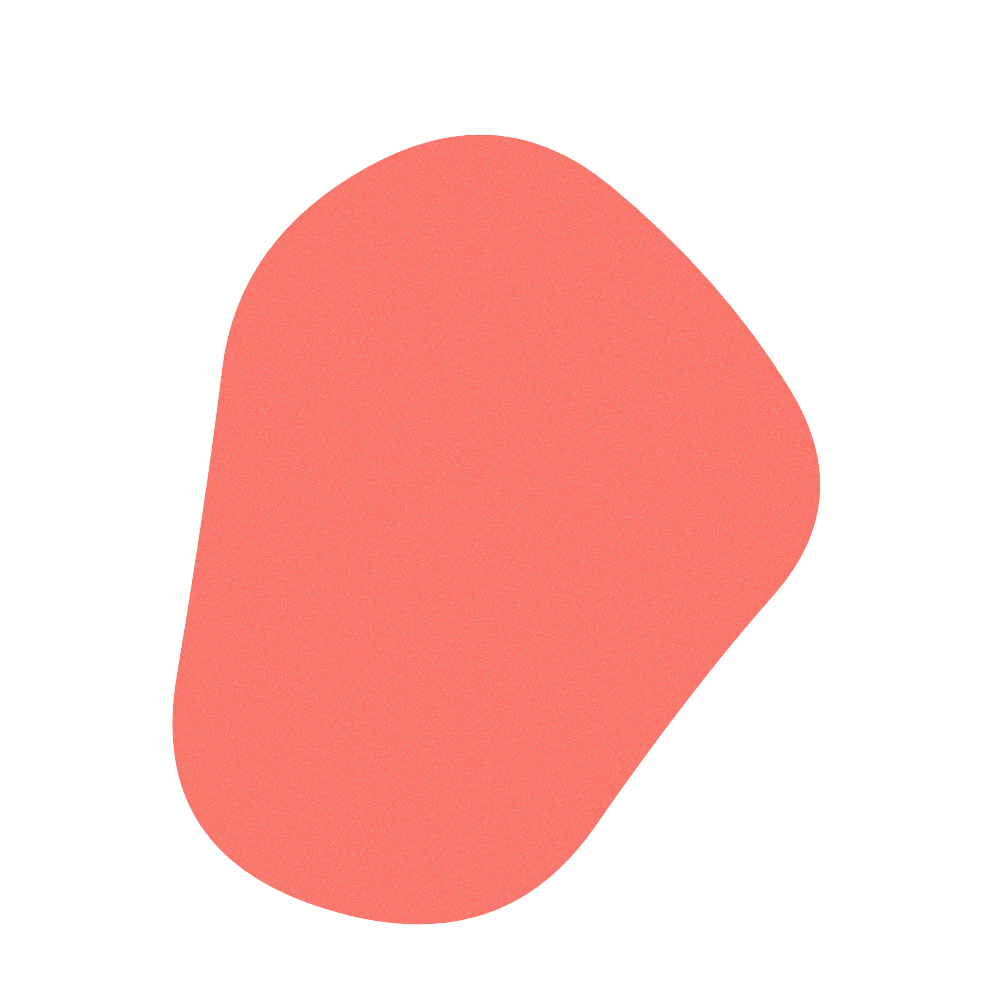
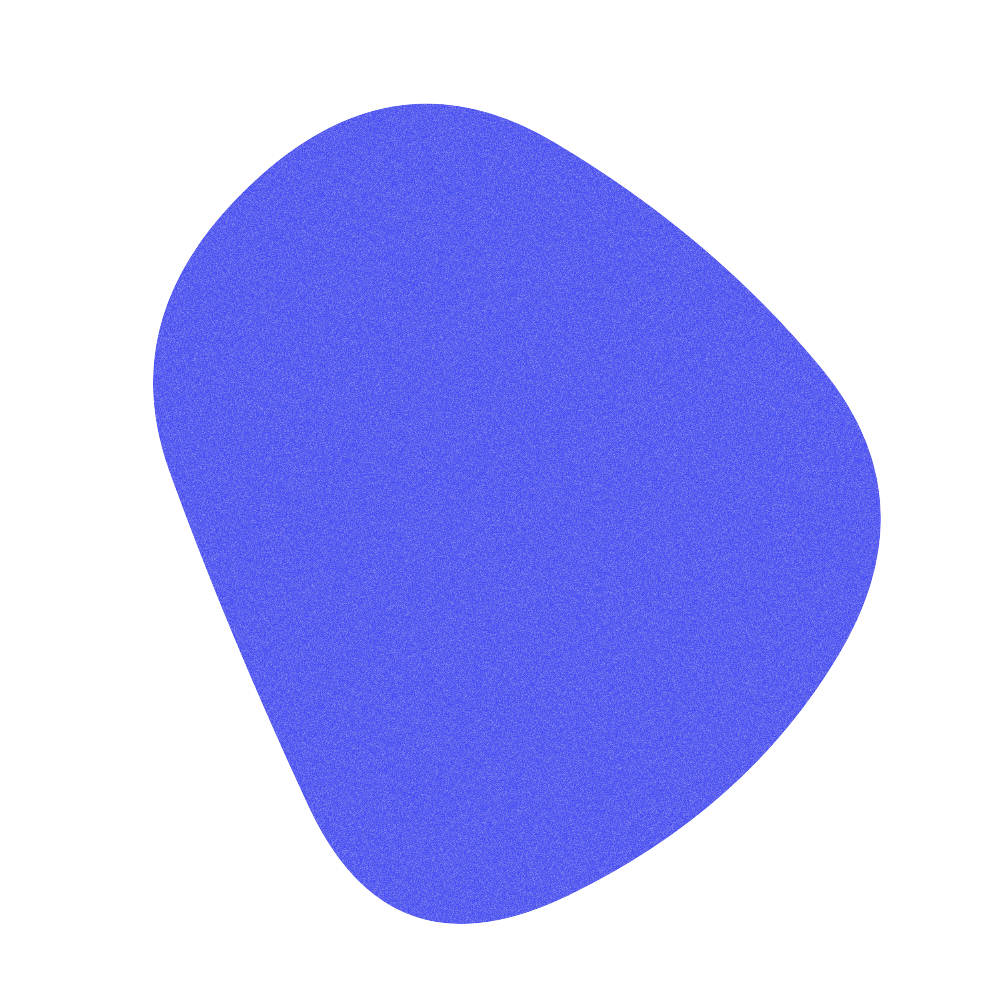
made minor changes

diff --git a/public/events/style.css b/public/events/style.css
@@ -1,4 +1,5 @@
-@import url('https://fonts.googleapis.com/css2?family=Poppins:wght@300;400;500;600;700&family=Roboto:wght@300;400;500;700&family=Lato:wght@300;400;700&family=Montserrat:wght@300;400;500;700&family=Open+Sans:wght@300;400;600;700&family=Raleway:wght@300;400;500;700&display=swap');
+@import url('https://fonts.googleapis.com/css2?family=Poppins:wght@300;400;500;600;700&family=Roboto:wght@300;400;500;700&family=transducer-variable:wght@300;400;700&family=Montserrat:wght@300;400;500;700&family=Open+Sans:wght@300;400;600;700&family=Raleway:wght@300;400;500;700&display=swap');
+@import url('https://fonts.googleapis.com/css2?family=Pacifico&display=swap');
 :root {
 
   --color1: 102, 153, 255;   /* A calmer, deeper blue */
@@ -13,7 +14,7 @@
 
 }
 
-  svg {
+  svg{
     display: none;
   }
 
@@ -193,8 +194,9 @@ nav .navbar{
     flex-wrap: wrap;
     justify-content: center;
     align-items: center;
-    
-  margin: 4rem 2rem 1rem;}
+    min-height: min(60vh,45rem);
+  margin: 5.5rem 3.5rem 2rem;
+}
 /* .hero-outer{
     position: relative;
     display: flex;
@@ -214,49 +216,53 @@ nav .navbar{
   width: 100%;    
   position: relative;    
   display: grid;    
-  grid-template-columns: 1fr 1fr;    
+  grid-template-columns:minmax(auto,60%) minmax(auto,40%);    
   justify-content: center;
-  gap: 5rem;    
-  padding: 4rem;   
+  align-items: center;
+  gap: 3rem;    
+    
+  min-height: inherit; 
   justify-items: center;
 
   }
 .hero__content {
     position: relative;
-    display: flex;
-    flex-direction: column;
-    justify-content: center;
-    align-items: flex-start;
-    gap: 1rem;
+    display: grid;
+    align-content: center;
+    padding:2rem;
     z-index: 10;
-    max-width: fit-content;
-    max-height: fit-content;
-    font-weight: 700;
+
+   
    
 }
 .hero__content h1 {
-  font-family: 'Poppins', sans-serif;
-  font-size: 3rem;
-  color: #2c3e50; /* Deep purple for stronger contrast */
-  font-weight: 800; /* Extra bold for emphasis */
+  font-size: clamp(48px, 10vw, 100px);
+  color:#121515; /* Deep purple for stronger contrast */
+  font-weight: 400; /* Bold for emphasis */
   letter-spacing: 0.02em;
+
+  line-height: 1.2;
+  opacity: 0.9; /* Slightly transparent for a softer look */
   z-index: 2; /* Ensure it appears above any overlay */
+  margin-bottom: 0.25rem; /* Add margin for spacing */
 }
 
 .hero__content p {
-  font-family: 'Poppins', sans-serif;
-  font-size: 1.5rem;
-  color: #34495e; /* Navy Gray for good contrast */
-  font-weight: 600;
-  line-height: 1.6;
+  font-family: 'Pacifico','transducer-variable', sans-serif;
+  font-size: clamp(16px, 2vw, 24px);
+  color: #121515; /* Navy Gray for good contrast */
+  line-height: 1.3; /* Increase line-height for better readability */
   z-index: 2; /* Ensure it appears above any overlay */
+  margin-top: 0; /* Remove top margin */
+  font-weight: 100;
+ 
 }
 
 
 .hero__image {
     position: relative;
-    width: clamp(20em, 30vw, 40em);
-    height: clamp(20em, 30vw, 40em);
+    width: clamp(20em, 25vw, 30em);
+    height: clamp(20em, 25vw, 30em);
     z-index: 10;
     animation: float 3s ease-in-out  infinite ;
     
@@ -266,9 +272,6 @@ nav .navbar{
     width: 100%;
     height: 100%;
     object-fit: cover; 
-    display: block; 
-    transition: all 0.5s ease;
-    background-blend-mode: var(--blending);
     /* border-radius: 54% 46% 25% 75% / 67% 66% 34% 33%  ; */
     border-radius: 55% 45% 74% 26% / 59% 51% 49% 41% ;
     animation: blobAnimation 20s infinite  linear  ;
@@ -279,7 +282,7 @@ nav .navbar{
     animation: blobAnimation 10s infinite linear alternate;
 } */
 
-.hero__image::before, .hero__image::after {
+/* .hero__image::before, .hero__image::after {
     content: "";
     position: absolute;
     bottom: -5%;
@@ -293,14 +296,17 @@ nav .navbar{
 
     border-radius: 55% 45% 74% 26% / 59% 51% 49% 41%    ; 
     z-index: -1;
-}
+} */
 
 
  .clouds{
     position: absolute;
     opacity: 0.8;
-    height: 100%;
-    width: 100%;
+    height: auto;
+    width: clamp(20em, 100vw, 120em);
+    left:50%;
+    right:50%;
+    transform:translate(-50%,50%)
 }
 .cloud1{
    top: -20%;
@@ -320,20 +326,16 @@ nav .navbar{
    z-index: 0;
 }
 .blob {
-    
     position: absolute;
-    top: 0%;
-    left: 0%;
-    width: 100%;
-    height: 100%;
-    aspect-ratio: 1;
-    background: conic-gradient(from 90deg, #ff9a9e, #fad0c4, #fad0c4, #ff9a9e);
-    background-size: cover;
-    border-radius: 55% 45% 74% 26% / 59% 51% 49% 41%    ; 
-    animation: blobAnimation 10s infinite  linear  ; 
-    z-index: -1;
-    filter: blur(100px);
+    height: clamp(100%,135%,150%);
+    width:auto;
+    top:-10em;
+    left:-10em;
+    opacity: 0.9;
+    animation: float 2s infinite linear;
+    z-index: 0;
 }
+
 .events-container{
     position: relative;
     width: 100%;
@@ -357,7 +359,7 @@ nav .navbar{
 }
 .event-list__item{
     cursor: pointer;
-    font-size: (.75rem,2vw,1.25rem);
+    font-size: clamp(.75rem,2vw,1.25rem);
     font-weight: 500;
   }
 .event-list__item:hover, .event-list__item.active{
@@ -536,7 +538,7 @@ nav .navbar{
         transform: translateY(0); /* Start and end at the original position */
     }
     50% {
-        transform: translateY(-30px); /* Move up by 10px */
+        transform: translateY(20px); /* Move up by 10px */
     }
 }
 /* #blobCanvas {
@@ -566,7 +568,23 @@ nav .navbar{
     border-radius: 55% 45% 74% 26% / 59% 51% 49% 41%;
   }
 }
-@media screen and (max-width:768px) {
+
+ @media screen and (max-width:1024px){
+  .hero-container{
+    min-height: min(30rem,60vh);
+  }
+ }
+@media screen and (max-width:765px) {
+  .hero{
+    display: flex;
+    flex-wrap: wrap-reverse;
+    gap:0;
+  }
+
+  .hero-container > *{
+    margin:0rem;
+    padding: 0;
+  }
   .clouds{
     display: none;
   }
@@ -576,16 +594,22 @@ nav .navbar{
   .hero-container{
     margin:1rem;
   }
-  .hero{
-    display: flex;
-    flex-wrap: wrap-reverse;
-    padding: 2rem;
+
+  .hero__content{
+    gap:1rem;
   }
   .event-list{
     gap:.75rem;
   }
   .events-container{
     padding: 1rem;
+  }
+  .hero__image{
+    width: 100%;
+    height:auto;
+    padding: 2rem;
+   
+    aspect-ratio: 1/1;
   }
   
 }
@@ -635,3 +659,18 @@ img{
   text-decoration: underline;
   color: #1abc9c; 
 } */
+@media screen and (max-width:1250px){
+  .blob{
+    left:-14rem;
+  }
+}
+@media screen and (max-width:1110px){
+  .blob{
+    left:-17rem;
+  }
+}
+@media screen and (max-width:900px){
+  .blob{
+    left:-20rem;
+  }
+}

diff --git a/public/events/events.html b/public/events/events.html
@@ -13,20 +13,23 @@
         <nav>
         <div class="navbar">Navbar goes here</div>
         </nav>
-        
+    </header>  
             <section class="hero-container">
-                    <img src="./assets/image.png" alt="" class="blob">
-                    <div class="hero">
-                        <div class="hero__content">
-                            <h1>Join the Journey</h1>
-                            <p><i>Explore events that inspire, connect, and empower. Be a part of our story.</i></p>
-                        </div>
+             
+                <div class="hero">
+
+                    <div class="hero__content">
+                        <h1>Activities</h1>
+                        <p><i>Explore events that inspire, connect, and empower. Be a part of our story.</i></p>
+                    </div>
                         <!-- <div class="blob">
                             
                         </div> -->
 
-                        <div class="hero__image"><img src="./assets/group-photo2.webp" alt=""></div>
-                    </div>
+                    <div class="hero__image"><img src="./assets/group-photo2.webp" alt=""></div>
+                </div>
+                <img src="./assets/image.png" alt="" class="blob">
+
 
                     <!-- bg imges -->
                     <img class=" clouds cloud1"src="./assets/cloud-twirl-2.png" alt="" >
@@ -44,10 +47,10 @@
                 </svg>
                  
             </section>
-    </header>
+   
     <main>
         <section class="events-container">
-             <div class="gradients-container">
+             <!-- <div class="gradients-container">
             <div class="g1"></div>
             <div class="g2"></div>
             <div class="g3"></div>
@@ -55,7 +58,7 @@
             <div class="g5"></div>
             <div class="interactive"></div>
        
-        </div>
+        </div> -->
             <nav>
                 <ul class="event-list">
                     <li class="event-list__item active" data-container="all-events">All</li>
